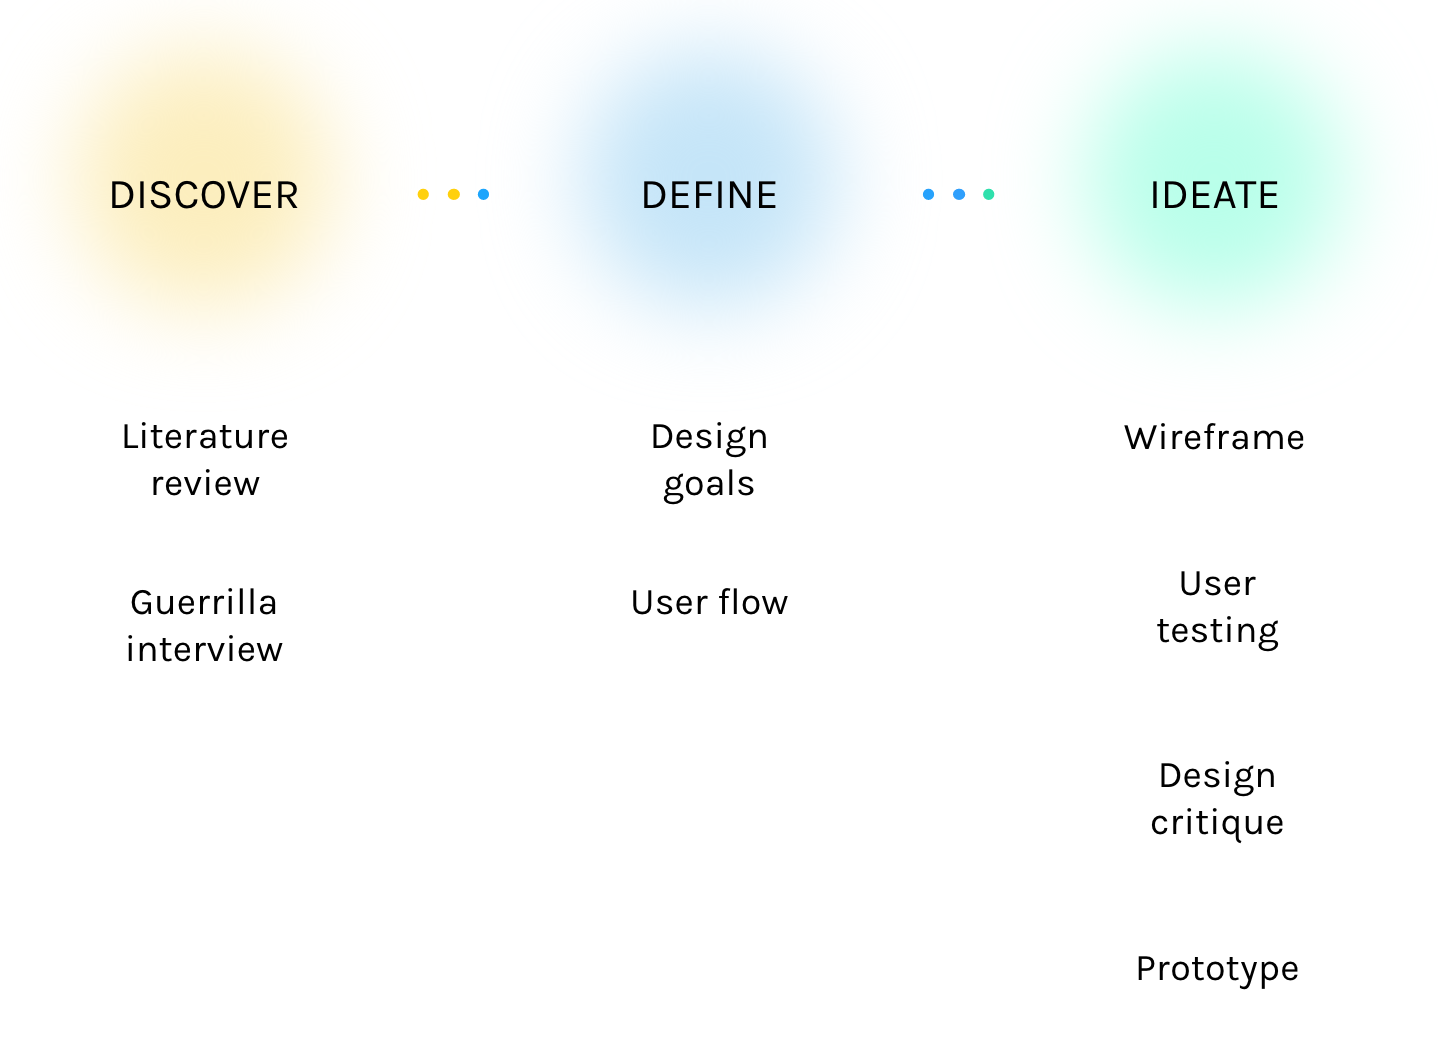
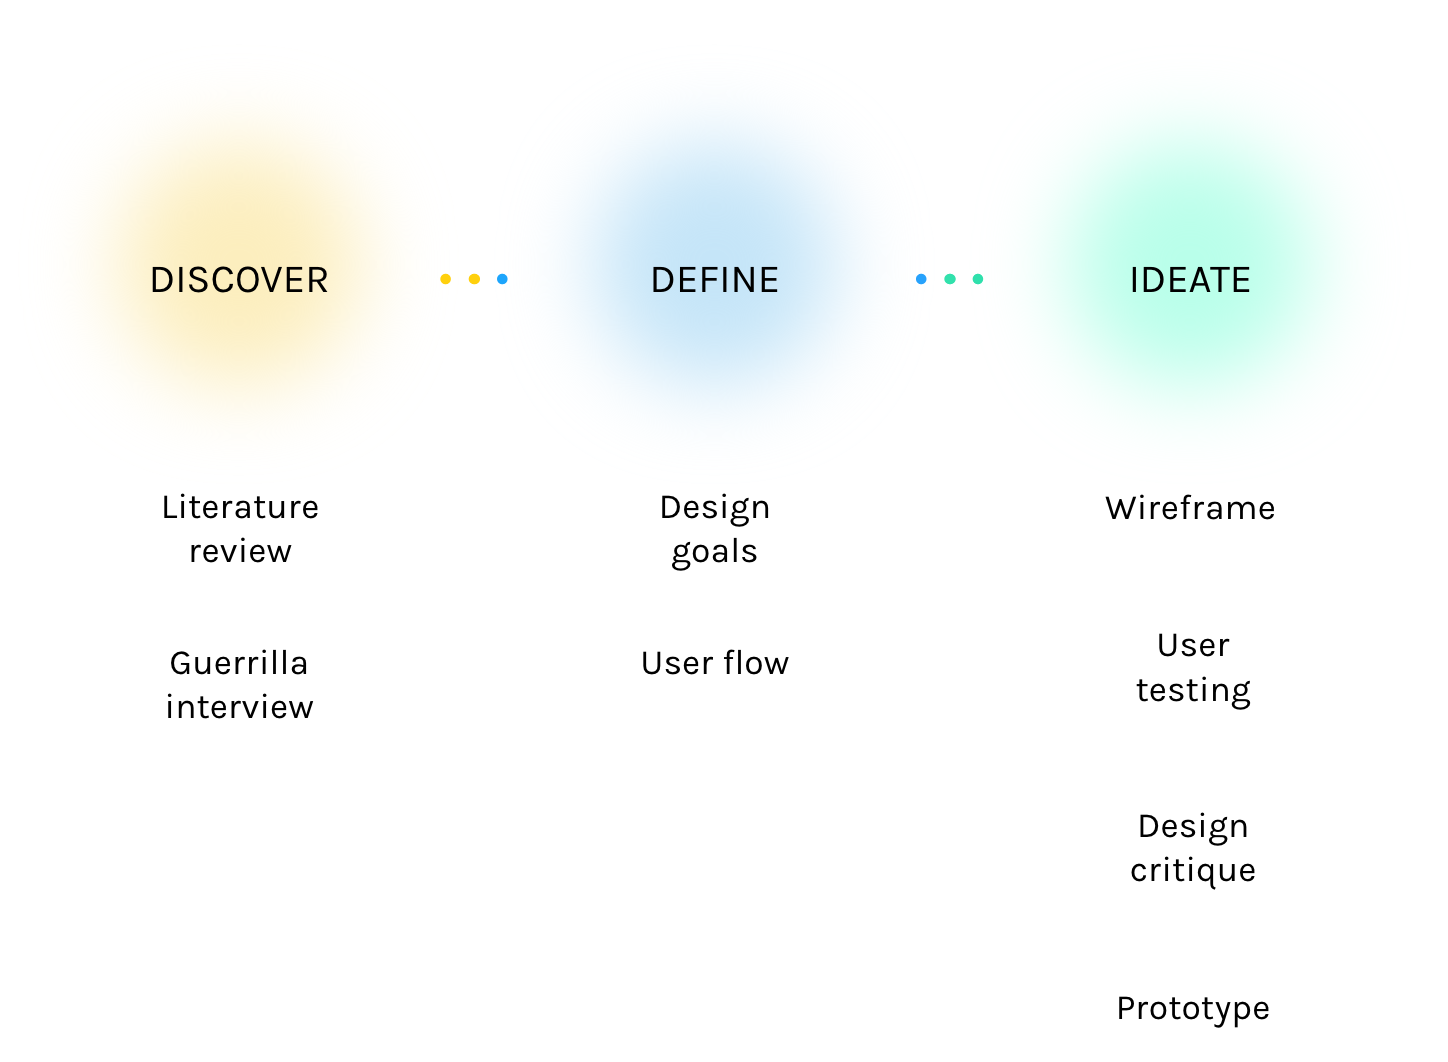
*

diff --git a/assets/css/main.css b/assets/css/main.css
@@ -135,7 +135,7 @@ h6 {
 
 .resize {
     width: 40em;
-    margin-top: 2em;
+    margin: 1em 0 1em 0;
 }
 
 .footer {
